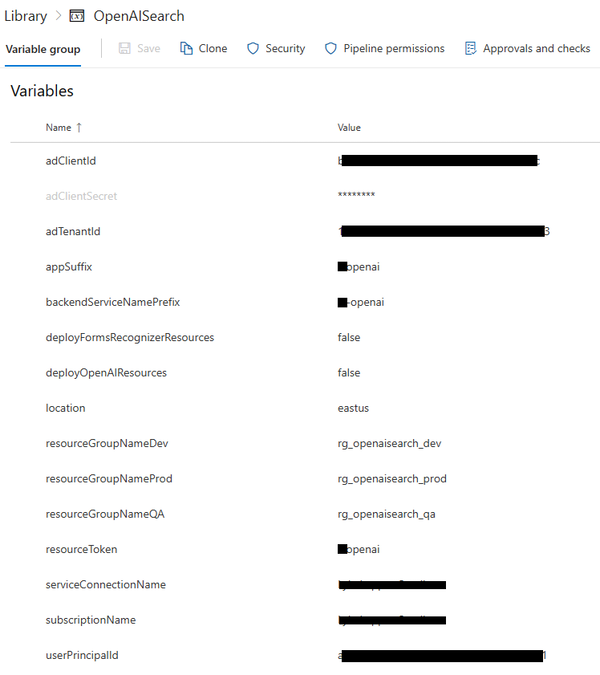
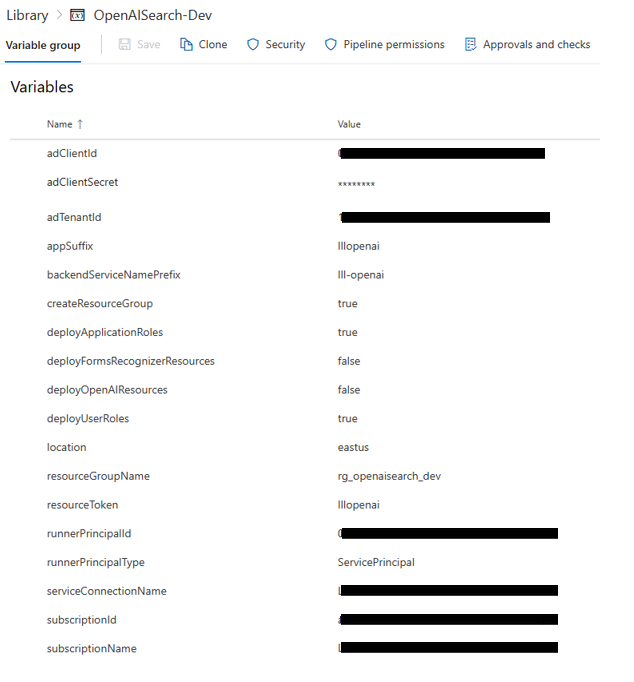
Two subscriptions (#3)
* Add new multiple subscription pipeline

* Change variable group name

* Fix parameter definition

* Update x2 pipe

* Update multi-sub deploy

* Update multi-deploy job

* Add az login to multi-deploy

* Update multi-sub deploy

* Fix indenting in multi-sub deploy

* Update multi-sub deploy

* Update multi-sub deploy

* Update multi-sub deploy

* Update condition on create resource group

* Update variable display in create template

* Rename x2 to x3 pipelines

* Add PROD to pipeline

* Update comments

* Attempt to split template into two

* Update parameters

* Fix broken parm

* Update broken parms

* fix broken parm

* fix broken template name

* Update templates to use 3 variable groups

* Correct variable group name

* Another service connection name change

* Update deploy to use az command

* Update deploy CLI command

* Update variables in pipeline

* Add all pipelines for 3 subscriptions

* Update parameter

* Update default

* Fix broken parameter

* Update link

* Update search Templates

* Update search job name

* Update search job name

* Force role installation

* Update security role declaration

* Update role grant structure

* Put roles assignment in there twice

* Update all multi-pipelines

* Rename all pipelines to original names

* Update run locally command file

---------

diff --git a/.azdo/pipelines/readme.md b/.azdo/pipelines/readme.md
@@ -55,7 +55,7 @@ In the four pipeline files shown in the previous section, specify the environmen
 
 ## 5. Variable Group Contents
 
-Create a variable group named 'OpenAISearch' with the values below, either manually or by customizing and running this command in the Azure Cloud Shell.
+Create a variable group named 'OpenAISearch-<env>', one for each environment that is being deployed, with the values below, either manually entering values or by customizing and running this command in the Azure Cloud Shell.
 
 `Note: After creation, make sure you mark the ClientSecret as a secret so it's not visible to others or in the pipeline logs.`
 
@@ -64,25 +64,26 @@ az login
 az pipelines variable-group create 
   --organization=https://dev.azure.com/<yourAzDOOrg>/ 
   --project='<yourAzDOProject>'
-  --name OpenAISearch 
+  --name OpenAISearch-Dev
   --variables 
       location='eastus'
-      resourceGroupDev='rg_openaisearch_dev'
-      resourceGroupQA='rg_openaisearch_qa'
-      resourceGroupProd='rg_openaisearch_prod'
-
+      resourceGroupName='rg_openaisearch_dev'
       serviceConnectionName='<yourServiceConnection>'
       subscriptionId='<yourSubscriptionId>'
       subscriptionName='<yourAzureSubscriptionName>'
-
       adTenantId='<yourTenantId>'
       adClientId='<yourClientId>'
       adClientSecret='<yourClientSecret>'
 
-      # SID for user that will be granted roles to the OpenAI resources
-      userPrincipalId='<youruserguid>'
+      # The SID for user that will be granted roles to update Search Indexes and use OpenAI resources.
+      # When using a pipeline, this should be the id of the service principal running the pipeline
+      # Note: this is NOT the objectId of the App Registration.  Look up the Enterprise Application
+      # associated with that App Registration and use the objectId of that Enterprise Application
+      # (AppReg.ObjectId should be the same as the EnterpriseApp.ApplicationId)
+      runnerPrincipalId='<userguid>'
+      runnerPrincipalType='ServicePrincipal'
 
-      # if you want to use a specific suffix for your resources instead of a random token, specify this value
+      # if you want to use a specific suffix for your resources instead of a randomly generated token, specify this value
       appSuffix='xxxoai'
       resourceToken='xxxoai'
 
@@ -98,7 +99,6 @@ az pipelines variable-group create
       deployApplicationRoles=false
 
 ## note: you will have to update create-template-infra.yml to pass the following optional variables in to main.bicep
-
 
       # if you have existing OpenAI resource specify it here
       openAiServiceName='<yourOpenAIServiceName>'
